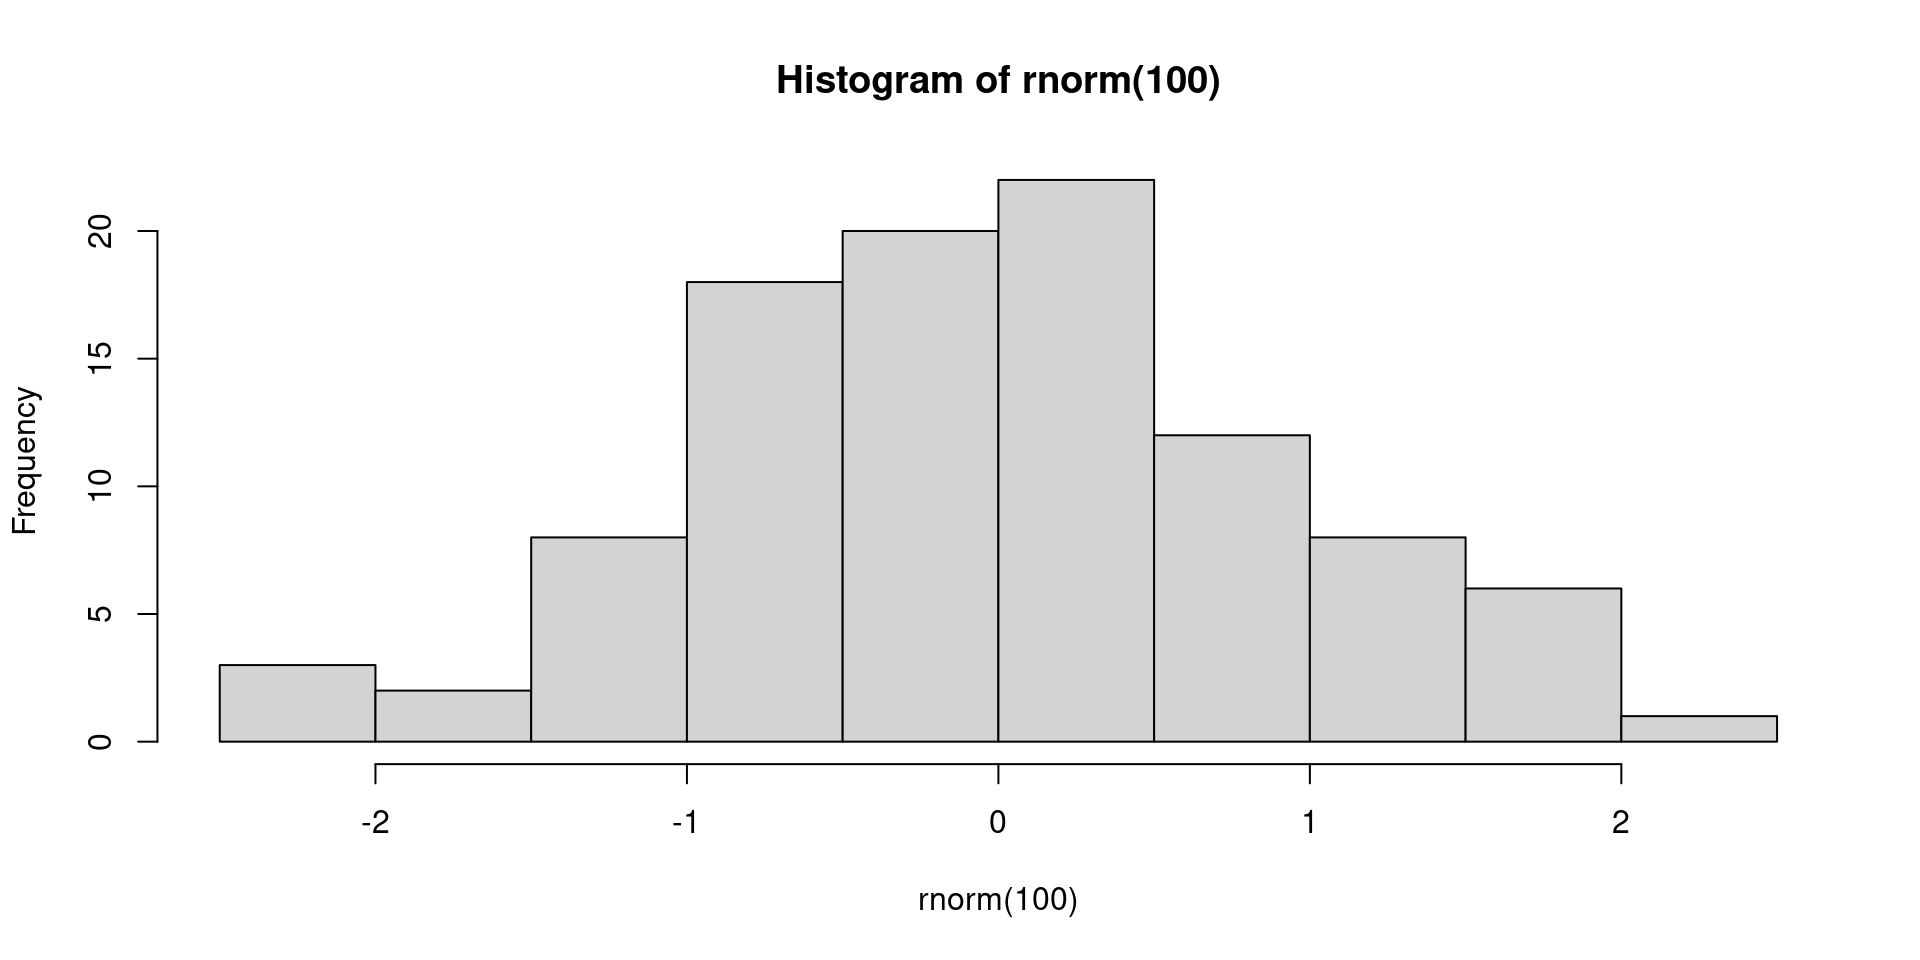
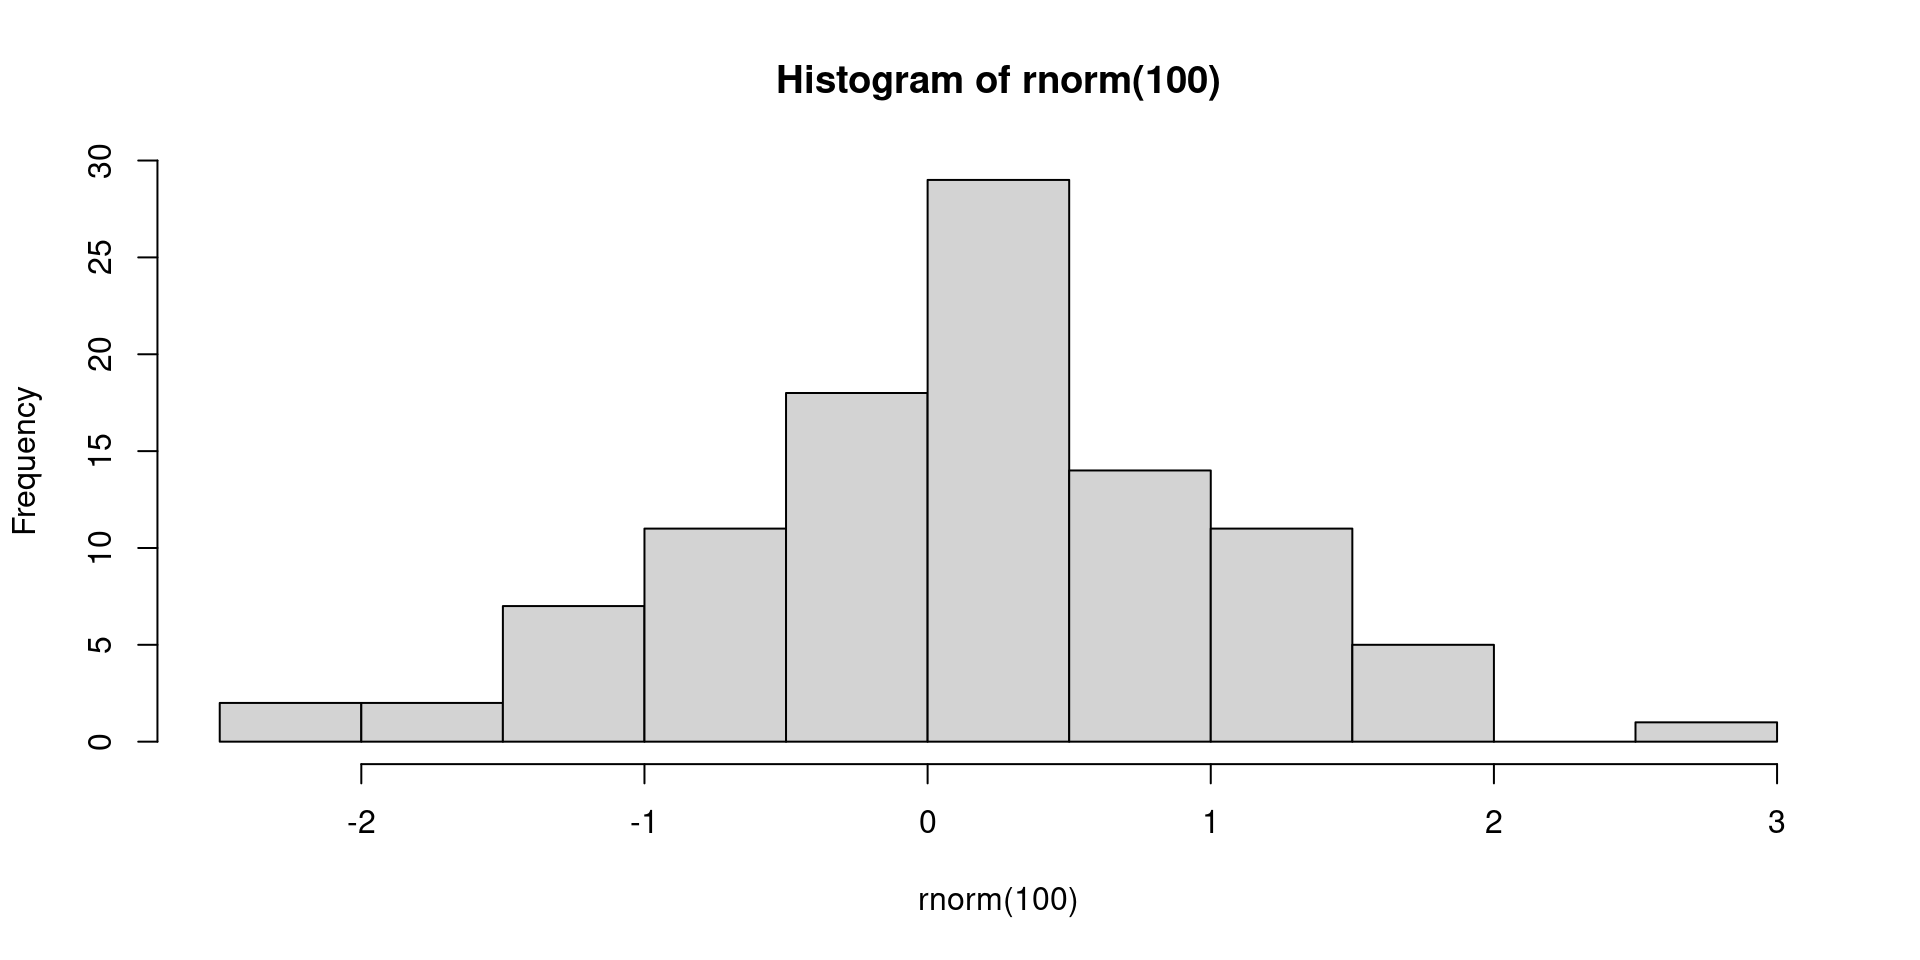
deploy: ba7bc3c5c86741c5de9a6aa048ccce76d23f3f68

diff --git a/listing.html b/listing.html
@@ -164,7 +164,7 @@ ul.task-list li input[type="checkbox"] {
 
 <div class="quarto-listing quarto-listing-container-default" id="listing-listing">
 <div class="list quarto-listing-default">
-<div class="quarto-post image-right" data-index="0" data-listing-date-sort="1713398400000" data-listing-file-modified-sort="1718108034165" data-listing-date-modified-sort="NaN" data-listing-reading-time-sort="7">
+<div class="quarto-post image-right" data-index="0" data-listing-date-sort="1713398400000" data-listing-file-modified-sort="1718725097615" data-listing-date-modified-sort="NaN" data-listing-reading-time-sort="7">
 <div class="thumbnail">
 <p><a href="./slides/01_intro.html"> <img src="./slides/thumbnails/hello.jpg" class="thumbnail-image"> </a></p>
 </div>
@@ -189,7 +189,7 @@ Apr 18, 2024
 </a>
 </div>
 </div>
-<div class="quarto-post image-right" data-index="1" data-listing-date-sort="1713398400000" data-listing-file-modified-sort="1718108034165" data-listing-date-modified-sort="NaN" data-listing-reading-time-sort="10">
+<div class="quarto-post image-right" data-index="1" data-listing-date-sort="1713398400000" data-listing-file-modified-sort="1718725097615" data-listing-date-modified-sort="NaN" data-listing-reading-time-sort="11">
 <div class="thumbnail">
 <p><a href="./slides/10_reproducibility.html"> <img src="./slides/thumbnails/reproducibility-crisis.jpg" class="thumbnail-image"> </a></p>
 </div>
@@ -214,7 +214,7 @@ Apr 18, 2024
 </a>
 </div>
 </div>
-<div class="quarto-post image-right" data-index="2" data-listing-date-sort="1713398400000" data-listing-file-modified-sort="1718108034165" data-listing-date-modified-sort="NaN" data-listing-reading-time-sort="8">
+<div class="quarto-post image-right" data-index="2" data-listing-date-sort="1713398400000" data-listing-file-modified-sort="1718725097615" data-listing-date-modified-sort="NaN" data-listing-reading-time-sort="8">
 <div class="thumbnail">
 <p><a href="./slides/02_r_packages.html"> <img src="./slides/thumbnails/packages.jpg" class="thumbnail-image"> </a></p>
 </div>
@@ -239,7 +239,7 @@ Apr 18, 2024
 </a>
 </div>
 </div>
-<div class="quarto-post image-right" data-index="3" data-listing-date-sort="1713398400000" data-listing-file-modified-sort="1718108034165" data-listing-date-modified-sort="NaN" data-listing-reading-time-sort="12">
+<div class="quarto-post image-right" data-index="3" data-listing-date-sort="1713398400000" data-listing-file-modified-sort="1718725097615" data-listing-date-modified-sort="NaN" data-listing-reading-time-sort="12">
 <div class="thumbnail">
 <p><a href="./slides/03_workflow.html"> <img src="./slides/thumbnails/workflow.jpg" class="thumbnail-image"> </a></p>
 </div>
@@ -264,7 +264,7 @@ Apr 18, 2024
 </a>
 </div>
 </div>
-<div class="quarto-post image-right" data-index="4" data-listing-date-sort="1713398400000" data-listing-file-modified-sort="1718108034165" data-listing-date-modified-sort="NaN" data-listing-reading-time-sort="22">
+<div class="quarto-post image-right" data-index="4" data-listing-date-sort="1713398400000" data-listing-file-modified-sort="1718725097615" data-listing-date-modified-sort="NaN" data-listing-reading-time-sort="22">
 <div class="thumbnail">
 <p><a href="./slides/04_quality.html"> <img src="./slides/thumbnails/quality.jpg" class="thumbnail-image"> </a></p>
 </div>
@@ -289,7 +289,7 @@ Apr 18, 2024
 </a>
 </div>
 </div>
-<div class="quarto-post image-right" data-index="5" data-listing-date-sort="1713398400000" data-listing-file-modified-sort="1718108034165" data-listing-date-modified-sort="NaN" data-listing-reading-time-sort="7">
+<div class="quarto-post image-right" data-index="5" data-listing-date-sort="1713398400000" data-listing-file-modified-sort="1718725097615" data-listing-date-modified-sort="NaN" data-listing-reading-time-sort="7">
 <div class="thumbnail">
 <p><a href="./slides/05_collaboration.html"> <img src="./slides/thumbnails/collaboration.jpg" class="thumbnail-image"> </a></p>
 </div>
@@ -314,7 +314,7 @@ Apr 18, 2024
 </a>
 </div>
 </div>
-<div class="quarto-post image-right" data-index="6" data-listing-date-sort="1713398400000" data-listing-file-modified-sort="1718108034165" data-listing-date-modified-sort="NaN" data-listing-reading-time-sort="7">
+<div class="quarto-post image-right" data-index="6" data-listing-date-sort="1713398400000" data-listing-file-modified-sort="1718725097615" data-listing-date-modified-sort="NaN" data-listing-reading-time-sort="7">
 <div class="thumbnail">
 <p><a href="./slides/06_publication.html"> <img src="./slides/thumbnails/publish.jpg" class="thumbnail-image"> </a></p>
 </div>
@@ -339,7 +339,7 @@ Apr 18, 2024
 </a>
 </div>
 </div>
-<div class="quarto-post image-right" data-index="7" data-listing-date-sort="1713398400000" data-listing-file-modified-sort="1718108034165" data-listing-date-modified-sort="NaN" data-listing-reading-time-sort="9">
+<div class="quarto-post image-right" data-index="7" data-listing-date-sort="1713398400000" data-listing-file-modified-sort="1718725097615" data-listing-date-modified-sort="NaN" data-listing-reading-time-sort="9">
 <div class="thumbnail">
 <p><a href="./slides/07_shiny.html"> <img src="./slides/thumbnails/shiny.jpg" class="thumbnail-image"> </a></p>
 </div>
@@ -364,7 +364,7 @@ Apr 18, 2024
 </a>
 </div>
 </div>
-<div class="quarto-post image-right" data-index="8" data-listing-date-sort="1713398400000" data-listing-file-modified-sort="1718108034165" data-listing-date-modified-sort="NaN" data-listing-reading-time-sort="6">
+<div class="quarto-post image-right" data-index="8" data-listing-date-sort="1713398400000" data-listing-file-modified-sort="1718725097615" data-listing-date-modified-sort="NaN" data-listing-reading-time-sort="6">
 <div class="thumbnail">
 <p><a href="./slides/08_optimization.html"> <img src="./slides/thumbnails/speed.jpg" class="thumbnail-image"> </a></p>
 </div>
@@ -389,7 +389,7 @@ Apr 18, 2024
 </a>
 </div>
 </div>
-<div class="quarto-post image-right" data-index="9" data-listing-date-sort="1713398400000" data-listing-file-modified-sort="1718108034165" data-listing-date-modified-sort="NaN" data-listing-reading-time-sort="4">
+<div class="quarto-post image-right" data-index="9" data-listing-date-sort="1713398400000" data-listing-file-modified-sort="1718725097615" data-listing-date-modified-sort="NaN" data-listing-reading-time-sort="4">
 <div class="thumbnail">
 <p><a href="./slides/09_conclusion.html"> <img src="./slides/thumbnails/conclusion.jpg" class="thumbnail-image"> </a></p>
 </div>

diff --git a/slides/03_workflow.html b/slides/03_workflow.html
@@ -729,106 +729,106 @@ $sd2
 
 $data
     group     values
-1       1  3.6484211
-2       1  8.4285226
-3       1 11.6666560
-4       1  7.8549722
-5       1  3.6226954
-6       1 -1.1549129
-7       1  5.9529121
-8       1  2.7543938
-9       1  6.7236581
-10      1  9.8365975
-11      1  6.2403168
-12      1  0.8663588
-13      1  8.2049115
-14      1  2.1379618
-15      1  7.1114187
-16      1  7.2903162
-17      1  2.5205601
-18      1  2.4046510
-19      1  2.3808606
-20      1  9.9461629
-21      1  5.5147745
-22      1  2.4950332
-23      1  8.9814865
-24      1  3.8012466
-25      1  0.5509062
-26      1  8.3891105
-27      1  4.6412797
-28      1  2.7100864
-29      1  5.5758439
-30      1  3.2689639
-31      1  5.0373210
-32      1  5.0112132
-33      1  8.9343854
-34      1  3.9222762
-35      1  6.0655759
-36      1  4.7423423
-37      1  4.2156797
-38      1  6.2157571
-39      1  5.5083649
-40      1  4.4927897
-41      1  2.0055062
-42      1  3.9046555
-43      1  2.5076605
-44      1  4.7424221
-45      1  7.9603611
-46      1  3.6235850
-47      1  4.6927253
-48      1  5.5671355
-49      1  6.8478557
-50      1  8.0887503
-51      2 17.5529991
-52      2 14.7231955
-53      2  7.1818798
-54      2  2.7354354
-55      2  4.1008595
-56      2  6.5047191
-57      2  8.9914397
-58      2  7.5307443
-59      2 15.3392986
-60      2  6.6593938
-61      2  4.8357678
-62      2  8.7698497
-63      2 -0.4506995
-64      2 13.6945639
-65      2 14.8268123
-66      2  9.6337609
-67      2 -0.4726708
-68      2  1.1867573
-69      2  7.7096317
-70      2  0.5026830
-71      2 11.8273734
-72      2 13.5906708
-73      2 11.3301623
-74      2  6.8133545
-75      2  5.1170268
-76      2  7.8627362
-77      2 12.1216599
-78      2 11.4915366
-79      2  4.3628373
-80      2  8.9389759
-81      2  7.1422905
-82      2  7.8512259
-83      2  5.9841167
-84      2 -0.1517528
-85      2 10.0889628
-86      2  6.0215982
-87      2  3.2047685
-88      2  9.8477171
-89      2  8.7531279
-90      2  8.1430746
-91      2  9.7246240
-92      2  5.5772089
-93      2  7.6729345
-94      2 10.1172110
-95      2  9.8369306
-96      2  6.2482350
-97      2  8.9768179
-98      2 11.9810348
-99      2  5.5546871
-100     2 10.5516584
+1       1  8.7377399
+2       1  3.7158320
+3       1  5.0510873
+4       1  9.9602539
+5       1  3.0377111
+6       1  3.3287450
+7       1  6.4891500
+8       1  4.1814122
+9       1  6.0237598
+10      1  5.7318349
+11      1  6.0644403
+12      1 -0.4014787
+13      1  7.2180578
+14      1  8.7394013
+15      1  8.1871733
+16      1  1.5536080
+17      1  2.9286013
+18      1  7.0697317
+19      1  6.4942363
+20      1  2.8592213
+21      1  3.0478447
+22      1  7.0600567
+23      1  7.6363895
+24      1  2.3539451
+25      1  4.9531579
+26      1 11.4358253
+27      1  7.6782958
+28      1  7.8405420
+29      1  3.9701071
+30      1  2.8004189
+31      1  7.2409403
+32      1 -1.7704723
+33      1  8.9935125
+34      1  8.3858408
+35      1  3.2824340
+36      1  2.4763773
+37      1  7.0789594
+38      1  5.9724666
+39      1  6.3831444
+40      1  2.1306980
+41      1 11.9050772
+42      1  2.2612274
+43      1  4.2671333
+44      1 10.1193642
+45      1  4.5421769
+46      1  4.2426930
+47      1  4.6945184
+48      1  8.2786148
+49      1  4.5191565
+50      1 10.9325219
+51      2  1.7318377
+52      2  7.1546960
+53      2  5.0013782
+54      2  6.0612668
+55      2 11.0689645
+56      2  5.2654874
+57      2  5.8035644
+58      2  2.1660880
+59      2  9.7137738
+60      2 -5.6748983
+61      2  8.0545522
+62      2  8.3104953
+63      2  2.6285491
+64      2  1.7044837
+65      2  7.2034559
+66      2  4.6326492
+67      2 11.4546412
+68      2 12.3218887
+69      2  5.3016642
+70      2  7.7287980
+71      2  1.6880939
+72      2  7.1062903
+73      2  2.0586764
+74      2  3.9175541
+75      2  6.7981126
+76      2 10.4545799
+77      2  7.9916043
+78      2  3.8025642
+79      2  5.7432792
+80      2  7.3815380
+81      2  9.2708818
+82      2 -0.7855882
+83      2  4.3502792
+84      2 10.0151469
+85      2  9.1486546
+86      2  6.5605364
+87      2  4.4579934
+88      2 11.3521622
+89      2  9.5204248
+90      2 10.7974266
+91      2  5.1650756
+92      2  9.7707656
+93      2  7.4908737
+94      2  3.2230284
+95      2 15.9315367
+96      2 12.5557396
+97      2  3.4706958
+98      2  8.9273949
+99      2  9.5625799
+100     2 11.8408796
 
 attr(,"class")
 [1] "SimulationResult"</code></pre>
@@ -888,16 +888,16 @@ $data
 # A tibble: 100 × 2
    group values
    &lt;dbl&gt;  &lt;dbl&gt;
- 1     1   3.65
- 2     1   8.43
- 3     1  11.7 
- 4     1   7.85
- 5     1   3.62
- 6     1  -1.15
- 7     1   5.95
- 8     1   2.75
- 9     1   6.72
-10     1   9.84
+ 1     1   8.74
+ 2     1   3.72
+ 3     1   5.05
+ 4     1   9.96
+ 5     1   3.04
+ 6     1   3.33
+ 7     1   6.49
+ 8     1   4.18
+ 9     1   6.02
+10     1   5.73
 # ℹ 90 more rows</code></pre>
 </div>
 </div>

diff --git a/slides/10_reproducibility.html b/slides/10_reproducibility.html
@@ -943,7 +943,7 @@
 <ul>
 <li>Creators (initial authors): Louisa Smith <a href="https://www.linkedin.com/in/louisahsmith/"><svg aria-hidden="true" role="img" viewbox="0 0 448 512" style="height:1em;width:0.88em;vertical-align:-0.125em;margin-left:auto;margin-right:auto;font-size:inherit;fill:currentColor;overflow:visible;position:relative;"><path d="M416 32H31.9C14.3 32 0 46.5 0 64.3v383.4C0 465.5 14.3 480 31.9 480H416c17.6 0 32-14.5 32-32.3V64.3c0-17.8-14.4-32.3-32-32.3zM135.4 416H69V202.2h66.5V416zm-33.2-243c-21.3 0-38.5-17.3-38.5-38.5S80.9 96 102.2 96c21.2 0 38.5 17.3 38.5 38.5 0 21.3-17.2 38.5-38.5 38.5zm282.1 243h-66.4V312c0-24.8-.5-56.7-34.5-56.7-34.6 0-39.9 27-39.9 54.9V416h-66.4V202.2h63.7v29.2h.9c8.9-16.8 30.6-34.5 62.9-34.5 67.2 0 79.7 44.3 79.7 101.9V416z"></path></svg></a>, see her course website <a href="https://epi590r-2023.louisahsmith.com/about">R Bootcamp (EPI590R) from Northeastern University</a></li>
 <li>In the current version, changes were done by (later author): Daniel Sabanes Bove <a href="https://github.com/danielinteractive/"><svg aria-hidden="true" role="img" viewbox="0 0 496 512" style="height:1em;width:0.97em;vertical-align:-0.125em;margin-left:auto;margin-right:auto;font-size:inherit;fill:currentColor;overflow:visible;position:relative;"><path d="M165.9 397.4c0 2-2.3 3.6-5.2 3.6-3.3.3-5.6-1.3-5.6-3.6 0-2 2.3-3.6 5.2-3.6 3-.3 5.6 1.3 5.6 3.6zm-31.1-4.5c-.7 2 1.3 4.3 4.3 4.9 2.6 1 5.6 0 6.2-2s-1.3-4.3-4.3-5.2c-2.6-.7-5.5.3-6.2 2.3zm44.2-1.7c-2.9.7-4.9 2.6-4.6 4.9.3 2 2.9 3.3 5.9 2.6 2.9-.7 4.9-2.6 4.6-4.6-.3-1.9-3-3.2-5.9-2.9zM244.8 8C106.1 8 0 113.3 0 252c0 110.9 69.8 205.8 169.5 239.2 12.8 2.3 17.3-5.6 17.3-12.1 0-6.2-.3-40.4-.3-61.4 0 0-70 15-84.7-29.8 0 0-11.4-29.1-27.8-36.6 0 0-22.9-15.7 1.6-15.4 0 0 24.9 2 38.6 25.8 21.9 38.6 58.6 27.5 72.9 20.9 2.3-16 8.8-27.1 16-33.7-55.9-6.2-112.3-14.3-112.3-110.5 0-27.5 7.6-41.3 23.6-58.9-2.6-6.5-11.1-33.3 2.6-67.9 20.9-6.5 69 27 69 27 20-5.6 41.5-8.5 62.8-8.5s42.8 2.9 62.8 8.5c0 0 48.1-33.6 69-27 13.7 34.7 5.2 61.4 2.6 67.9 16 17.7 25.8 31.5 25.8 58.9 0 96.5-58.9 104.2-114.8 110.5 9.2 7.9 17 22.9 17 46.4 0 33.7-.3 75.4-.3 83.6 0 6.5 4.6 14.4 17.3 12.1C428.2 457.8 496 362.9 496 252 496 113.3 383.5 8 244.8 8zM97.2 352.9c-1.3 1-1 3.3.7 5.2 1.6 1.6 3.9 2.3 5.2 1 1.3-1 1-3.3-.7-5.2-1.6-1.6-3.9-2.3-5.2-1zm-10.8-8.1c-.7 1.3.3 2.9 2.3 3.9 1.6 1 3.6.7 4.3-.7.7-1.3-.3-2.9-2.3-3.9-2-.6-3.6-.3-4.3.7zm32.4 35.6c-1.6 1.3-1 4.3 1.3 6.2 2.3 2.3 5.2 2.6 6.5 1 1.3-1.3.7-4.3-1.3-6.2-2.2-2.3-5.2-2.6-6.5-1zm-11.4-14.7c-1.6 1-1.6 3.6 0 5.9 1.6 2.3 4.3 3.3 5.6 2.3 1.6-1.3 1.6-3.9 0-6.2-1.4-2.3-4-3.3-5.6-2z"></path></svg></a> <a href="https://www.linkedin.com/in/danielsabanesbove/"><svg aria-hidden="true" role="img" viewbox="0 0 448 512" style="height:1em;width:0.88em;vertical-align:-0.125em;margin-left:auto;margin-right:auto;font-size:inherit;fill:currentColor;overflow:visible;position:relative;"><path d="M416 32H31.9C14.3 32 0 46.5 0 64.3v383.4C0 465.5 14.3 480 31.9 480H416c17.6 0 32-14.5 32-32.3V64.3c0-17.8-14.4-32.3-32-32.3zM135.4 416H69V202.2h66.5V416zm-33.2-243c-21.3 0-38.5-17.3-38.5-38.5S80.9 96 102.2 96c21.2 0 38.5 17.3 38.5 38.5 0 21.3-17.2 38.5-38.5 38.5zm282.1 243h-66.4V312c0-24.8-.5-56.7-34.5-56.7-34.6 0-39.9 27-39.9 54.9V416h-66.4V202.2h63.7v29.2h.9c8.9-16.8 30.6-34.5 62.9-34.5 67.2 0 79.7 44.3 79.7 101.9V416z"></path></svg></a></li>
-<li>This work is licensed under the <a href="http://creativecommons.org/licenses/by-sa/4.0/">Creative Commons Attribution-ShareAlike 4.0 International License</a>.</li>
+<li>This work is licensed under the <a href="https://creativecommons.org/licenses/by-nc/4.0/">Creative Commons Attribution-Noncommercial 4.0 International License</a>.</li>
 <li>The source files are hosted at <a href="https://github.com/RCONIS/workshop-r-swe-zrh">github.com/RCONIS/workshop-r-swe-zrh</a>, which is forked from the original version at <a href="https://github.com/openpharma/workshop-r-swe-mtl/">github.com/openpharma/workshop-r-swe-mtl</a>.</li>
 <li>Important: To use this work you must provide the name of the creators (initial authors), a link to the material, a link to the license, and indicate if changes were made</li>
 </ul>

diff --git a/index.html b/index.html
@@ -154,11 +154,12 @@ Creators (initial authors):
 - Philippe Boileau, https://github.com/philboileau and https://www.linkedin.com/in/philippe-boileau-773270205/
 - Lukas A. Widmer, https://github.com/luwidmer and https://www.linkedin.com/in/lukas-widmer-37800b9b/
 - Michael Mayer, https://www.linkedin.com/in/drmichaelmayer/
+- Louisa H. Smith, https://www.linkedin.com/in/louisahsmith/
 
 The current version was edited by
 - Daniel Sabanes Bove, https://github.com/danielinteractive/ and www.linkedin.com/in/danielsabanesbove/
 
-License: This work is licensed under the Creative Commons Attribution-ShareAlike 4.0 International License.
+License: In general unless otherwise stated, his work is licensed under the Creative Commons Attribution-ShareAlike 4.0 International License.
 To view a copy of this license, visit http://creativecommons.org/licenses/by-sa/4.0/.
 The source files are hosted at https://github.com/RCONIS/workshop-r-swe-zrh, which is forked from
 the original version at https://github.com/openpharma/workshop-r-swe-mtl.

diff --git a/slides/01_intro.html b/slides/01_intro.html
@@ -533,11 +533,11 @@
 <section id="speed-intros-and-what-would-you-like-to-learn" class="slide level2">
 <h2>Speed intros and what would you like to learn?</h2>
 <ul>
-<li>Name? 🐵</li>
+<li>Name? 🤠</li>
 <li>Organization? 🏢</li>
 <li>Motivation for this workshop/ what would you like to learn 🧠</li>
-<li>Favorite food? 🥒</li>
-<li>Favorite music? 🎺</li>
+<li>Favorite food? 🥗</li>
+<li>Favorite music? 🎵</li>
 </ul>
 </section>
 <section id="what-do-we-mean-by-gswep4r" class="slide level2">
